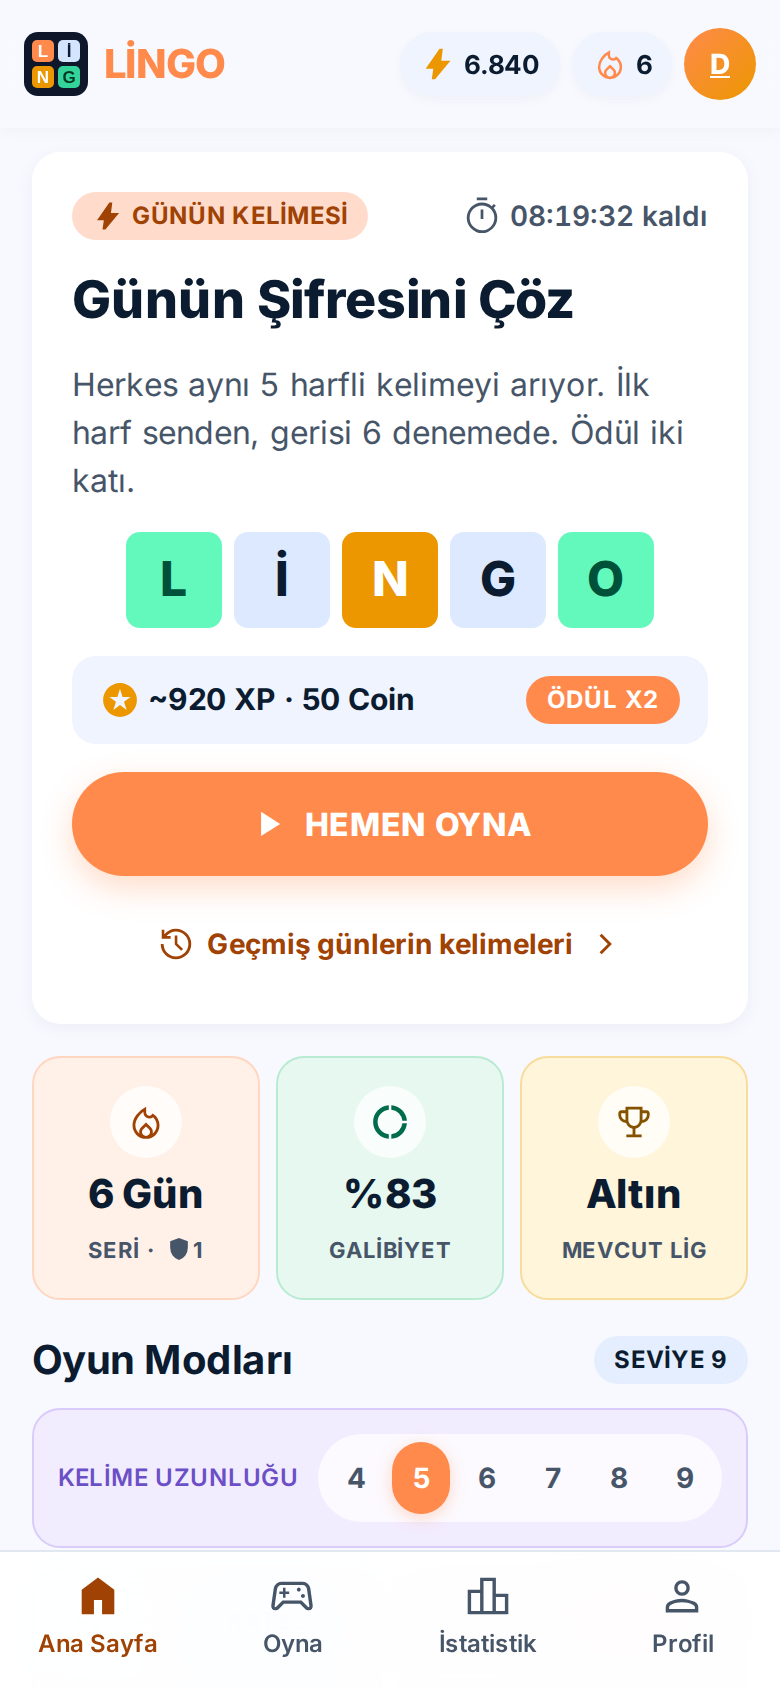
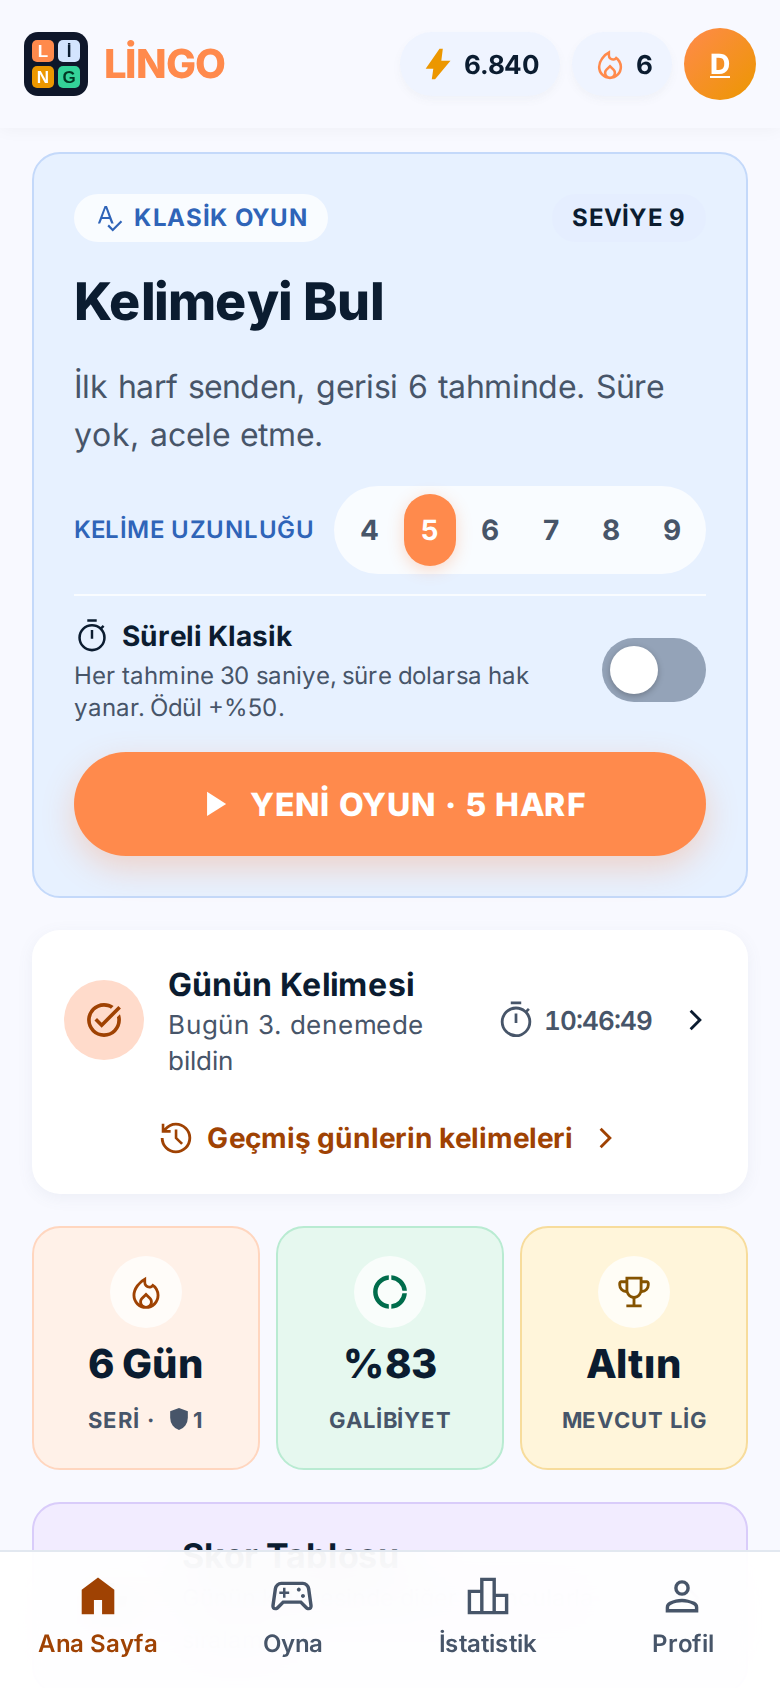
Ana sayfada klasik oyun öne, Zor Mod kartı
- En üstte büyük Klasik kartı: kelime uzunluğu, Süreli Klasik anahtarı ve
  "Yeni oyun" düğmesi tek yerde; yarım oyun varsa "Devam et"
- Günün Kelimesi ince bir satıra indi (durum, geri sayım, arşiv bağlantısı);
  gizlenmedi, öne de çıkmıyor
- "Diğer Modlar": Zor Mod ve Zamana Karşı yan yana. Zor Mod kartı ayardan
  bağımsız olarak yeni klasik oyunu zor modda başlatır; yarım oyun varsa
  Devam / Yeni oyun sorulur
- README ekran görüntüleri ve zor mod açıklaması güncellendi

Claude-Session: https://claude.ai/code/session_01DpVrEgeQ52kb5oPXwzJp8M

Changed region(s): [[0.0308, 0.0924, 0.9846, 0.9242], [0.0308, 0.7085, 0.0615, 0.7393], [0.0308, 0.0924, 0.0615, 0.1232]]

diff --git a/js/app.js b/js/app.js
@@ -319,15 +319,20 @@ function bindNameTaken() {
   });
 }
 
-// Klasik mod: yarım kalan oyun varsa önce sorar.
-async function openClassic() {
+// Klasik mod: yarım kalan oyun varsa önce sorar. hard: yeni oyun, ayardan bağımsız zor modda başlar.
+let forceHard = false;
+async function openClassic({ hard = false } = {}) {
+  const startNew = () => {
+    forceHard = hard;
+    go('#/oyna/klasik');
+  };
   const saved = getProfile().classic;
-  if (!saved) return go('#/oyna/klasik');
+  if (!saved) return startNew();
   const n = len(saved.answer);
-  // Hiç tahmin yapılmamış oyunda kaybedilecek bir şey yok; uzunluk değiştiyse sormadan yenisi açılır.
-  if (!saved.guesses.length && n !== selectedLength()) {
+  // Hiç tahmin yapılmamış oyunda kaybedilecek bir şey yok; uzunluk ya da zorluk değiştiyse sormadan yenisi açılır.
+  if (!saved.guesses.length && (n !== selectedLength() || (hard && !saved.hard))) {
     abandonClassic();
-    return go('#/oyna/klasik');
+    return startNew();
   }
   const choice = await dialog({
     title: 'Oyuna devam etmek ister misiniz?',
@@ -341,7 +346,7 @@ async function openClassic() {
   if (choice === 'continue') go('#/oyna/klasik');
   else if (choice === 'new') {
     abandonClassic();
-    go('#/oyna/klasik');
+    startNew();
   }
 }
 
@@ -403,7 +408,7 @@ function bindCommon() {
   app.querySelectorAll('[data-go]').forEach((b) => b.addEventListener('click', () => go(b.dataset.go)));
   app.querySelectorAll('[data-classic]').forEach((b) => b.addEventListener('click', (e) => {
     e.preventDefault();
-    openClassic();
+    openClassic({ hard: b.dataset.classic === 'hard' });
   }));
 }
 
@@ -425,29 +430,50 @@ function renderHome() {
   const d = getDayRecord(dayKey());
   const dailyDone = d?.finished;
   const winRate = p.played ? Math.round((p.wins / p.played) * 100) : 0;
-  const base = scoreRound({ attempts: 3, seconds: 60 });
   const saved = p.classic;
 
   app.innerHTML = `
   ${headerHome(p)}
   <main class="page">
-    <section class="card hero" aria-labelledby="daily-title">
+    <section class="card hero tint tint-sky" aria-labelledby="classic-title">
       <div class="section-head">
-        <span class="badge primary">${icon('bolt', 'fill')}Günün kelimesi</span>
-        <span class="countdown">${icon('timer')}<span id="midnight">${hms(msUntilMidnight())}</span> kaldı</span>
+        <span class="badge tint-chip sky-ink">${icon('spellcheck')}Klasik oyun</span>
+        <span class="badge">Seviye ${levelFor(p.xp)}</span>
       </div>
-      <h2 id="daily-title">Günün Şifresini Çöz</h2>
-      <p>Herkes aynı ${DAILY_LENGTH} harfli kelimeyi arıyor. İlk harf senden, gerisi 6 denemede. Ödül iki katı.</p>
-      <div class="mini-tiles" aria-hidden="true">
-        <span class="correct">L</span><span class="absent">İ</span><span class="present">N</span><span class="absent">G</span><span class="correct">O</span>
+      <h2 id="classic-title">Kelimeyi Bul</h2>
+      <p>${saved
+        ? `Yarım kalan ${len(saved.answer)} harfli ${saved.hard ? 'zor ' : ''}${saved.timed ? 'süreli ' : ''}oyunun seni bekliyor (${saved.guesses.length}/${MAX_GUESSES} tahmin).`
+        : p.timedClassic
+          ? `İlk harf senden, gerisi ${MAX_GUESSES} tahminde. Her tahmine ${TIMED_TURN_SECONDS} saniye.`
+          : `İlk harf senden, gerisi ${MAX_GUESSES} tahminde. Süre yok, acele etme.`}</p>
+      <div class="length-picker">
+        <span id="length-label" class="small sky-ink">KELİME UZUNLUĞU</span>
+        <div class="length-options" role="radiogroup" aria-labelledby="length-label">
+          ${Array.from({ length: MAX_LENGTH - MIN_LENGTH + 1 }, (_, i) => MIN_LENGTH + i).map((k) => `
+            <button role="radio" aria-checked="${k === n}" data-length="${k}">${k}</button>`).join('')}
+        </div>
+        <div class="timed-row">
+          <div><label for="timed-toggle">${icon('timer')}Süreli Klasik</label><small>Her tahmine ${TIMED_TURN_SECONDS} saniye, süre dolarsa hak yanar. Ödül +%50.</small></div>
+          <button class="switch" id="timed-toggle" role="switch" aria-checked="${!!p.timedClassic}"><span></span></button>
+        </div>
       </div>
-      <div class="reward-row">
-        <span>${icon('stars', 'fill')} ~${fmt(base.xp * DAILY_REWARD_FACTOR)} XP · ${base.coins * DAILY_REWARD_FACTOR} Coin</span>
-        <span class="badge solid">Ödül x${DAILY_REWARD_FACTOR}</span>
-      </div>
-      ${dailyDone
-        ? `<button class="btn btn-soft btn-block" data-go="#/oyna/gunluk">${icon('task_alt')}${d.won ? `Bugün ${d.guesses.length}. denemede bildin` : 'Bugünkü kelime kaçtı'} · Sonucu Gör</button>`
-        : `<button class="btn btn-primary btn-block" data-go="#/oyna/gunluk">${icon('play_arrow', 'fill')}${d?.guesses?.length ? 'DEVAM ET' : 'HEMEN OYNA'}</button>`}
+      <button class="btn btn-primary btn-block" data-classic>${icon('play_arrow', 'fill')}${saved ? 'DEVAM ET' : `YENİ OYUN · ${n} HARF`}</button>
+    </section>
+
+    <section class="card daily-strip" aria-labelledby="daily-title">
+      <button class="daily-main" data-go="#/oyna/gunluk">
+        <span class="dot primary">${icon(dailyDone ? 'task_alt' : 'bolt', 'fill')}</span>
+        <div>
+          <strong id="daily-title">Günün Kelimesi</strong>
+          <small>${dailyDone
+            ? (d.won ? `Bugün ${d.guesses.length}. denemede bildin` : 'Bugünkü kelime kaçtı')
+            : d?.guesses?.length
+              ? `Yarım kaldı, ${d.guesses.length}/${MAX_GUESSES} tahmin`
+              : `Herkes aynı ${DAILY_LENGTH} harfli kelimeyi arıyor · Ödül x${DAILY_REWARD_FACTOR}`}</small>
+        </div>
+        <span class="countdown">${icon('timer')}<span id="midnight">${hms(msUntilMidnight())}</span></span>
+        ${icon('chevron_right')}
+      </button>
       <button class="link-btn ${dailyDone ? '' : 'muted-link'}" data-go="#/arsiv">${icon(dailyDone ? 'history' : 'lock')}${dailyDone ? 'Geçmiş günlerin kelimeleri' : 'Arşiv, bugünü tamamlayınca açılır'} ${icon('chevron_right')}</button>
     </section>
 
@@ -465,30 +491,14 @@ function renderHome() {
 
     <section aria-labelledby="modes-title" style="display:flex;flex-direction:column;gap:10px">
       <div class="section-head">
-        <h2 id="modes-title">Oyun Modları</h2>
-        <span class="badge">Seviye ${levelFor(p.xp)}</span>
-      </div>
-      <div class="card tight length-picker tint tint-lilac">
-        <span id="length-label" class="small lilac-ink">KELİME UZUNLUĞU</span>
-        <div class="length-options" role="radiogroup" aria-labelledby="length-label">
-          ${Array.from({ length: MAX_LENGTH - MIN_LENGTH + 1 }, (_, i) => MIN_LENGTH + i).map((k) => `
-            <button role="radio" aria-checked="${k === n}" data-length="${k}">${k}</button>`).join('')}
-        </div>
-        <div class="timed-row">
-          <div><label for="timed-toggle">${icon('timer')}Süreli Klasik</label><small>Her tahmine ${TIMED_TURN_SECONDS} saniye, süre dolarsa hak yanar. Ödül +%50.</small></div>
-          <button class="switch" id="timed-toggle" role="switch" aria-checked="${!!p.timedClassic}"><span></span></button>
-        </div>
+        <h2 id="modes-title">Diğer Modlar</h2>
       </div>
       <div class="modes">
-        <button class="mode tint tint-sky" data-classic>
-          <div class="mode-top"><span class="mode-icon dot sky-ink">${icon('spellcheck')}</span><span class="badge tint-chip sky-ink">${saved ? 'Yarım kaldı' : p.timedClassic ? 'Süreli' : 'Stratejik'}</span></div>
-          <h3>Klasik ${n} Harf</h3>
-          <p>${saved
-            ? `${len(saved.answer)} harfli ${saved.timed ? 'süreli ' : ''}oyunun seni bekliyor.`
-            : p.timedClassic
-              ? `6 tahmin hakkı, her tahmine ${TIMED_TURN_SECONDS} saniye. İlk harf açık gelir.`
-              : '6 tahmin hakkı, süre yok. İlk harf açık gelir.'}</p>
-          <span class="mode-cta sky-ink">${saved ? 'Devam Et' : 'Hemen Başla'} ${icon('arrow_forward')}</span>
+        <button class="mode tint tint-amber" data-classic="hard">
+          <div class="mode-top"><span class="mode-icon dot amber-ink">${icon('fitness_center')}</span><span class="badge tint-chip amber-ink">Zorlu</span></div>
+          <h3>Zor Mod</h3>
+          <p>${n} harfli kelime. Bulduğun harfleri sonraki tahminlerde kullanmak zorunlu.</p>
+          <span class="mode-cta amber-ink">Hemen Başla ${icon('arrow_forward')}</span>
         </button>
         <button class="mode tint tint-rose" data-go="#/oyna/zaman">
           <div class="mode-top"><span class="mode-icon dot rose-ink">${icon('timer')}</span><span class="badge tint-chip rose-ink">Turbo hız</span></div>
@@ -625,6 +635,8 @@ async function newSession(mode, arg) {
     });
   }
   // Klasik: kayıtlı yarım oyun varsa ondan devam edilir.
+  const hard = forceHard;
+  forceHard = false;
   const saved = p.classic;
   if (saved) {
     const words = await loadWords(len(saved.answer));
@@ -638,6 +650,7 @@ async function newSession(mode, arg) {
   const s = baseSession(mode, randomFrom(words.answers), words);
   s.label = `Klasik #${p.classicCount + 1}`;
   s.timed = !!p.timedClassic;
+  if (hard) s.hard = true;
   updateProfile({ classicCount: p.classicCount + 1 });
   saveProgress(s);
   return s;

diff --git a/css/styles.css b/css/styles.css
@@ -629,6 +629,18 @@ button:focus-visible, a:focus-visible, input:focus-visible {
 :root[data-theme='dark'] .sky-ink { color: #8fb6f2; }
 :root[data-theme='dark'] .rose-ink { color: #f19ab7; }
 .badge.tint-chip { background: var(--tint-dot); }
+.amber-ink { color: #9a5b00; }
+@media (prefers-color-scheme: dark) { :root:not([data-theme='light']) .amber-ink { color: #f2c26b; } }
+:root[data-theme='dark'] .amber-ink { color: #f2c26b; }
+.daily-strip { display: flex; flex-direction: column; gap: 2px; padding: 8px; }
+.daily-main { display: flex; align-items: center; gap: 12px; width: 100%; padding: 8px; border-radius: 12px; text-align: left; color: inherit; }
+.daily-main:hover { background: var(--surface-low); }
+.daily-main > div { flex: 1; min-width: 0; }
+.daily-main strong { display: block; font-size: 16px; line-height: 22px; }
+.daily-main small { display: block; color: var(--text-2); font-size: 13px; line-height: 18px; }
+.daily-main .dot { flex: none; width: 40px; height: 40px; border-radius: 999px; display: flex; align-items: center; justify-content: center; }
+.daily-main .countdown { flex: none; font-size: 13px; }
+.daily-strip .link-btn { align-self: center; }
 
 /* Sonuç ekranı: altta sabit eylem çubuğu */
 .page.has-actions { padding-bottom: calc(100px + env(safe-area-inset-bottom, 0px)); }
@@ -779,3 +791,4 @@ button:focus-visible, a:focus-visible, input:focus-visible {
 .board-row.top-2 .board-rank { color: #8b9bb0; }
 .board-row.top-3 .board-rank { color: #b8733b; }
 .board-row.self { background: var(--tint-lilac-bg); border: 1.5px solid var(--tint-lilac-bd); }
+@media (max-width: 359px) { .daily-main .countdown { display: none; } }

diff --git a/README.md b/README.md
@@ -39,7 +39,7 @@ Takıldığında ampul simgesine basıp bir harf açtırabilirsin. İpucu 4. tah
 
 **Rozetler.** İlk zafer, ilk denemede bilmek, 7 ve 30 günlük seri, 9 harfli kelime, zor modda galibiyet gibi 12 hedef var. Her rozet açıldığında coin ödülü verir. İlerlemeni İstatistikler sayfasındaki Rozetler bölümünden görebilirsin.
 
-**Zor mod.** Açıkken, doğru yerde bulduğun harfleri yerinde tutman ve kelimede olduğunu öğrendiğin harfleri sonraki tahminlerde kullanman gerekir. Yeni başlayan oyunlarda geçerli olur.
+**Zor mod.** Ana sayfadaki Zor Mod kartı, klasik bir oyunu doğrudan zor modda başlatır. Profil sayfasındaki ayarı açarsan bütün yeni oyunlar zor modda başlar. Zor modda, doğru yerde bulduğun harfleri yerinde tutman ve kelimede olduğunu öğrendiğin harfleri sonraki tahminlerde kullanman gerekir.
 
 **Günlük hatırlatma.** Android uygulamasında, günün kelimesini çözmediysen seçtiğin saatte bildirim gelir. Kelimeyi çözdüğün gün bildirim gönderilmez.
 
@@ -66,8 +66,8 @@ Takıldığında ampul simgesine basıp bir harf açtırabilirsin. İpucu 4. tah
 <table>
   <tr>
     <td align="center" width="33%"><img src="docs/ekranlar/11-hos-geldin.png" width="200" alt="İlk açılışta oyuncu adı"><br>İlk açılışta oyuncu adı</td>
-    <td align="center" width="33%"><img src="docs/ekranlar/01-ana-sayfa.png" width="200" alt="Ana sayfa ve günün kelimesi"><br>Ana sayfa ve günün kelimesi</td>
-    <td align="center" width="33%"><img src="docs/ekranlar/02-oyun-modlari.png" width="200" alt="Kelime uzunluğu ve oyun modları"><br>Kelime uzunluğu ve oyun modları</td>
+    <td align="center" width="33%"><img src="docs/ekranlar/01-ana-sayfa.png" width="200" alt="Ana sayfa ve klasik oyun"><br>Ana sayfa ve klasik oyun</td>
+    <td align="center" width="33%"><img src="docs/ekranlar/02-oyun-modlari.png" width="200" alt="Zor Mod ve Zamana Karşı"><br>Zor Mod ve Zamana Karşı</td>
   </tr>
   <tr>
     <td align="center" width="33%"><img src="docs/ekranlar/03-oyun-alani.png" width="200" alt="5 harfli oyun, üçüncü tahmin"><br>5 harfli oyun, üçüncü tahmin</td>
